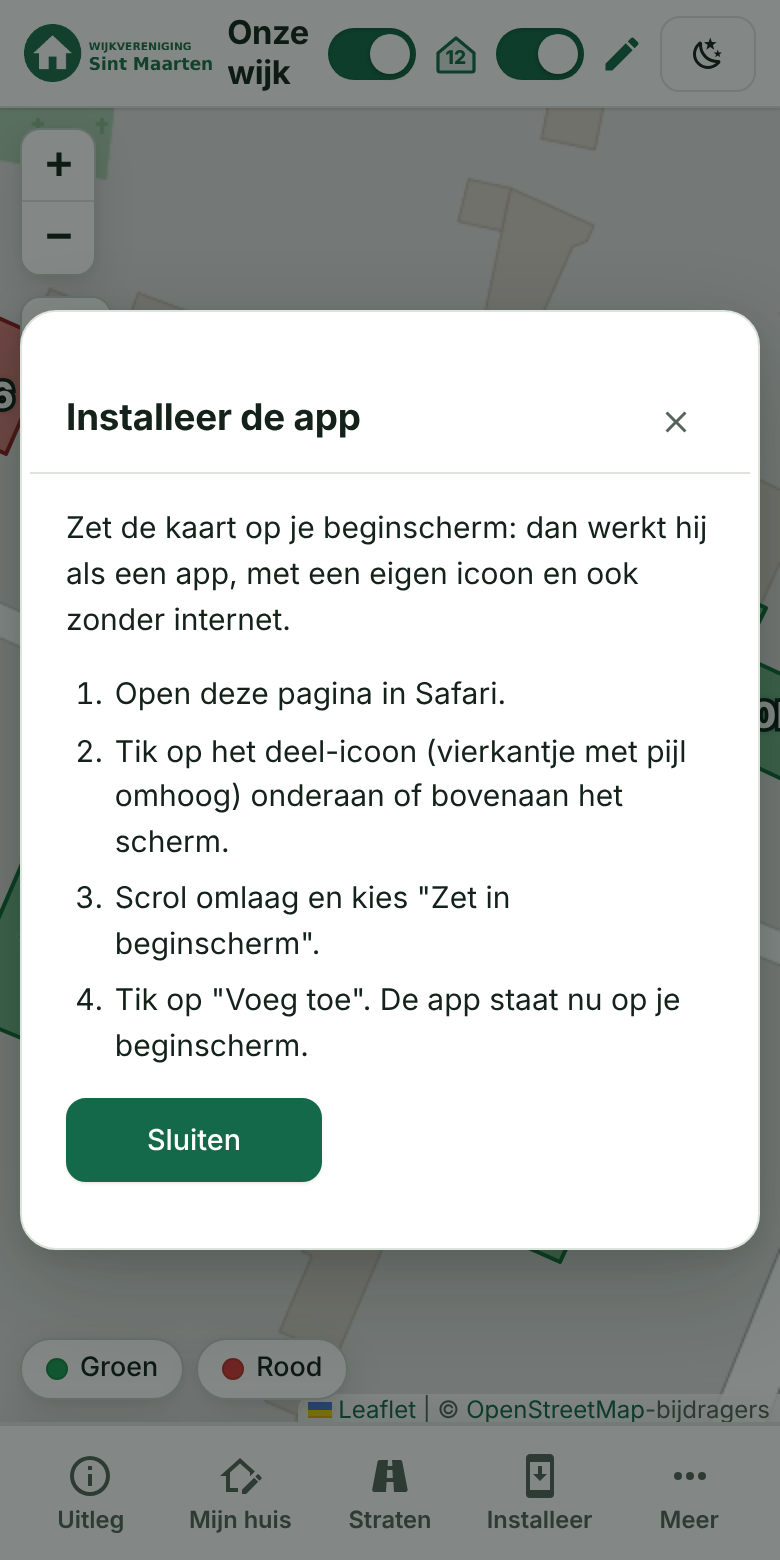
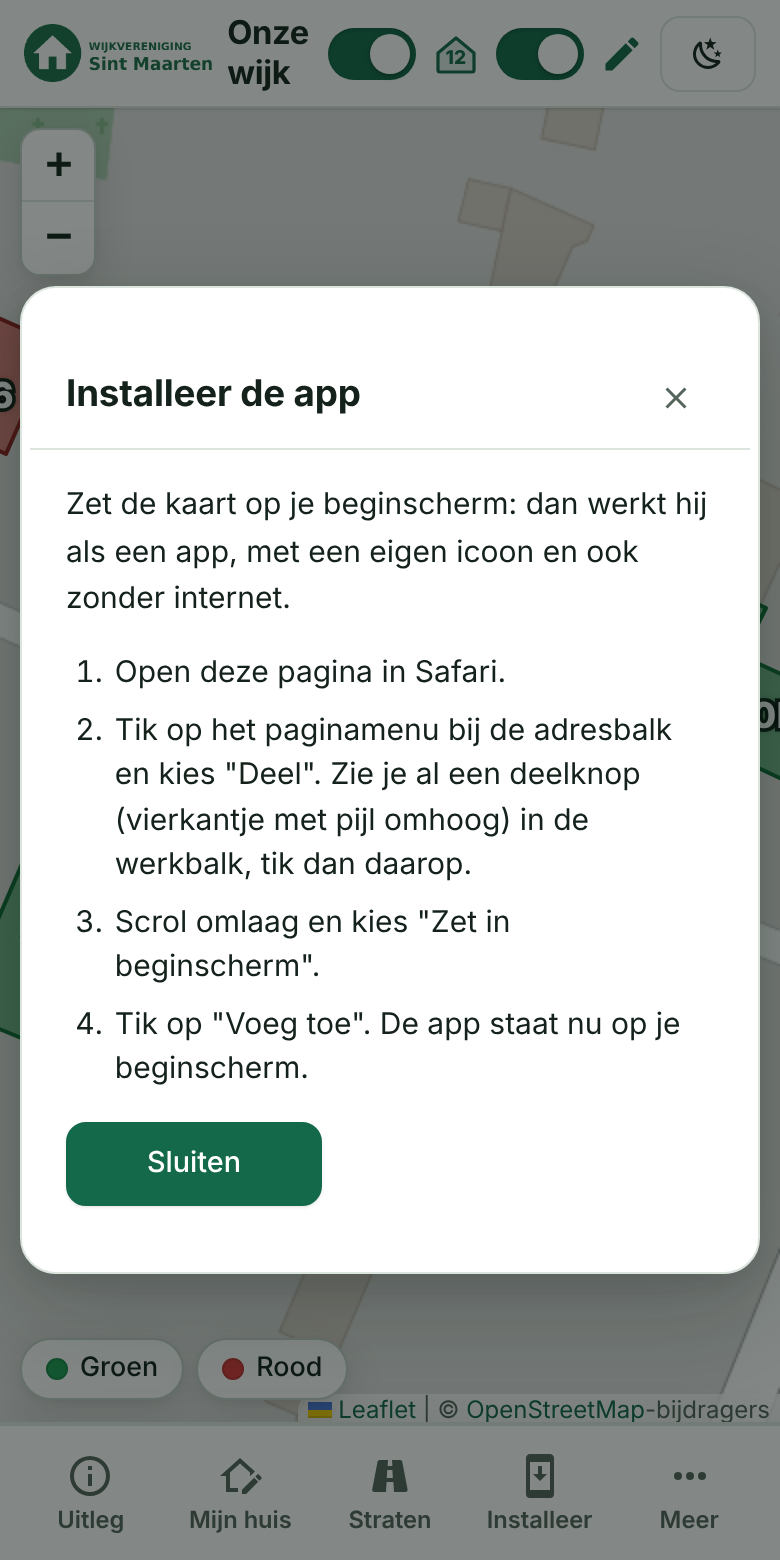
iOS-stappen: deelmenu via het paginamenu (iOS 27)
Op iOS 27 staat Deel in Safari achter het paginamenu, niet meer als vast
icoon onderaan of bovenaan het scherm. Stap 2 noemt nu het paginamenu bij
de adresbalk en de deelknop in de werkbalk, zodat de tekst ook klopt voor
iPad en andere tabbalk-instellingen.

Vertaling, README (nl en en) en de iOS-screenshot bijgewerkt.

Claude-Session: https://claude.ai/code/session_01KSdu53R4dH46tib61mqt2t

Changed region(s): [[0.0308, 0.2462, 0.9846, 0.8308], [0.0308, 0.1846, 0.9846, 0.2154], [0.8615, 0.2462, 0.8923, 0.2769]]

diff --git a/public/js/lang-en.js b/public/js/lang-en.js
@@ -44,7 +44,7 @@
     "Installeer": "Install",
     "Zet de kaart op je beginscherm: dan werkt hij als een app, met een eigen icoon en ook zonder internet.": "Put the map on your home screen: it then works like an app, with its own icon and even without internet.",
     "Open deze pagina in Safari.": "Open this page in Safari.",
-    "Tik op het deel-icoon (vierkantje met pijl omhoog) onderaan of bovenaan het scherm.": "Tap the share icon (square with an arrow pointing up) at the bottom or top of the screen.",
+    "Tik op het paginamenu bij de adresbalk en kies \"Deel\". Zie je al een deelknop (vierkantje met pijl omhoog) in de werkbalk, tik dan daarop.": "Tap the page menu next to the address bar and choose \"Share\". If you already see a share button (square with an arrow pointing up) in the toolbar, tap that instead.",
     "Scrol omlaag en kies \"Zet in beginscherm\".": "Scroll down and choose \"Add to Home Screen\".",
     "Tik op \"Voeg toe\". De app staat nu op je beginscherm.": "Tap \"Add\". The app is now on your home screen.",
     "Tik op de drie puntjes (⋮) rechtsboven in Chrome.": "Tap the three dots (⋮) at the top right in Chrome.",

diff --git a/public/js/pwa.js b/public/js/pwa.js
@@ -17,7 +17,7 @@
   const STEPS = {
     ios: [
       'Open deze pagina in Safari.',
-      'Tik op het deel-icoon (vierkantje met pijl omhoog) onderaan of bovenaan het scherm.',
+      'Tik op het paginamenu bij de adresbalk en kies "Deel". Zie je al een deelknop (vierkantje met pijl omhoog) in de werkbalk, tik dan daarop.',
       'Scrol omlaag en kies "Zet in beginscherm".',
       'Tik op "Voeg toe". De app staat nu op je beginscherm.',
     ],

diff --git a/README.md b/README.md
@@ -273,7 +273,7 @@ Ook het beheer (`/beheer`) is te installeren als eigen app, met een eigen donker
 
 - **Knop *Installeer* in de menubalk**: zolang de app niet geïnstalleerd is, staat er in de menubalk een knop **Installeer** (een telefoon met een pijl). Er opent niets vanzelf. Is de app geïnstalleerd en open je hem als app, dan verdwijnt de knop. Hij staat op iPhone/iPad, Android en Windows (Chrome/Edge), en in elke andere browser die zelf installeren aanbiedt (bijvoorbeeld Chrome op macOS of Linux):
   - **Android (Chrome), Windows en andere desktopbrowsers**: de knop start meteen de installatie van de browser. Kan dat niet (bijvoorbeeld omdat je de vraag van de browser net hebt weggeklikt), dan opent een venster met de stappen: menu ⋮ → *App installeren*; op Windows het installeer-icoon in de adresbalk of menu → *App installeren* (Edge: *Apps* → *Deze site als app installeren*).
-  - **iPhone/iPad (Safari)**: de knop opent een venster met de stappen. Een webpagina kan het deelmenu van Safari niet zelf openen en iOS heeft geen installatieprompt, dus je tikt zelf op de deelknop van Safari en kiest *Zet in beginscherm* → *Voeg toe*.
+  - **iPhone/iPad (Safari)**: de knop opent een venster met de stappen. Een webpagina kan het deelmenu van Safari niet zelf openen en iOS heeft geen installatieprompt, dus je opent zelf het deelmenu van Safari (via het paginamenu bij de adresbalk → *Deel*, of met de deelknop in de werkbalk) en kiest *Zet in beginscherm* → *Voeg toe*.
   - Safari op macOS en Firefox kunnen niet via de pagina installeren; daar staat de knop niet.
   - Open je de website in de browser terwijl de app al geïnstalleerd is, dan staat de knop er toch (de browser meldt dat niet aan de pagina); open dan de app zelf.
 - **Offline**: de app bewaart zichzelf, de laatst bekende kaartgegevens, het logo en de kaarttegels van het wijkgebied (en de PDF-uitsnede).

diff --git a/README.en.md b/README.en.md
@@ -275,7 +275,7 @@ The admin area (`/beheer`) can also be installed as its own app, with its own da
 
 - **The *Install* button in the menu bar**: as long as the app is not installed, the menu bar has an **Install** button (a phone with an arrow). Nothing opens by itself. Once the app is installed and you open it as an app, the button disappears. It is there on iPhone/iPad, Android and Windows (Chrome/Edge), and in any other browser that offers installing itself (for example Chrome on macOS or Linux):
   - **Android (Chrome), Windows and other desktop browsers**: the button starts the browser's installation right away. If that is not possible (for example because you just dismissed the browser's question), a window with the steps opens: menu ⋮ → *Install app*; on Windows the install icon in the address bar or the menu → *Install app* (Edge: *Apps* → *Install this site as an app*).
-  - **iPhone/iPad (Safari)**: the button opens a window with the steps. A web page cannot open Safari's own share menu and iOS has no install prompt, so you tap Safari's share button yourself and choose *Add to Home Screen* → *Add*.
+  - **iPhone/iPad (Safari)**: the button opens a window with the steps. A web page cannot open Safari's own share menu and iOS has no install prompt, so you open Safari's share menu yourself (through the page menu next to the address bar → *Share*, or with the share button in the toolbar) and choose *Add to Home Screen* → *Add*.
   - Safari on macOS and Firefox cannot install from the page; the button is not shown there.
   - If you open the website in the browser while the app is already installed, the button is still shown (the browser does not tell the page); open the app itself instead.
 - **Offline**: the app stores itself, the last known map data, the logo and the map tiles of the neighbourhood (and the PDF section).
